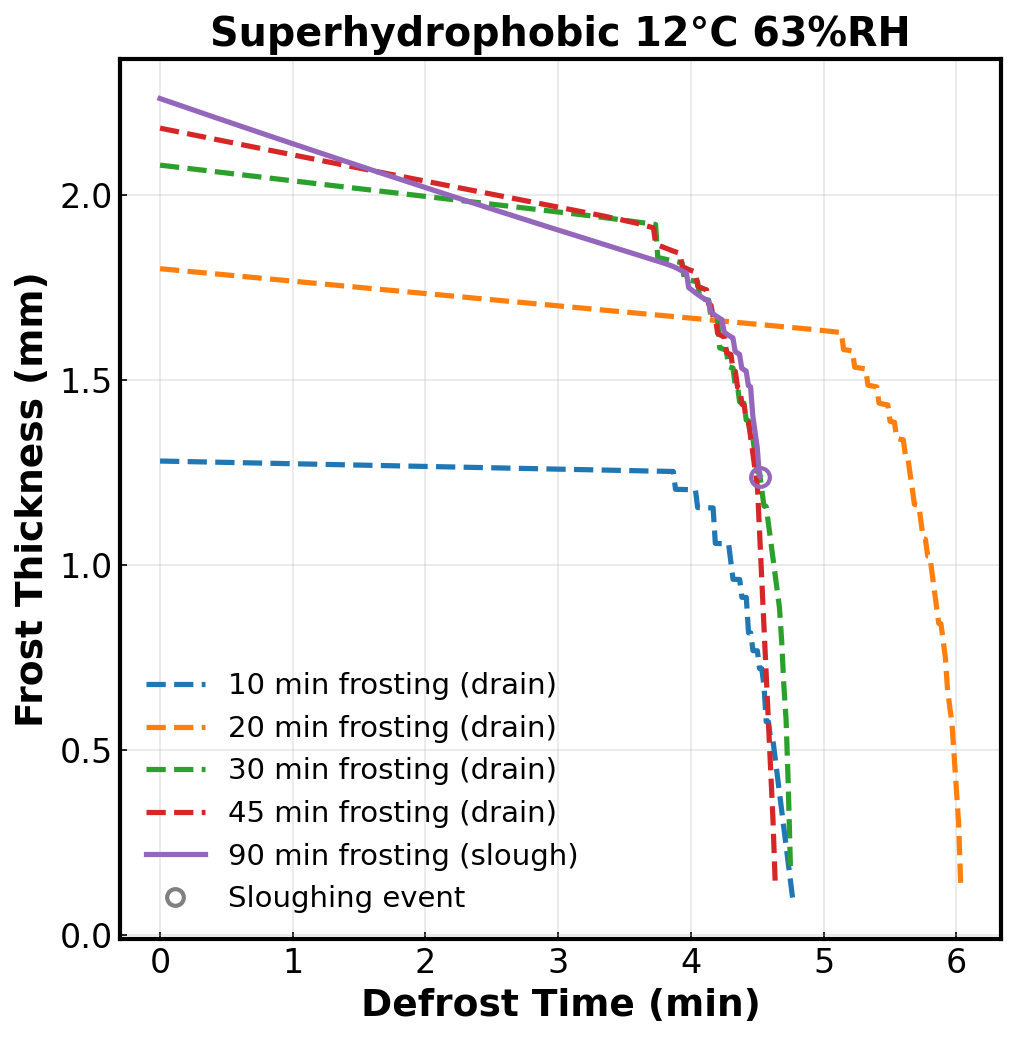
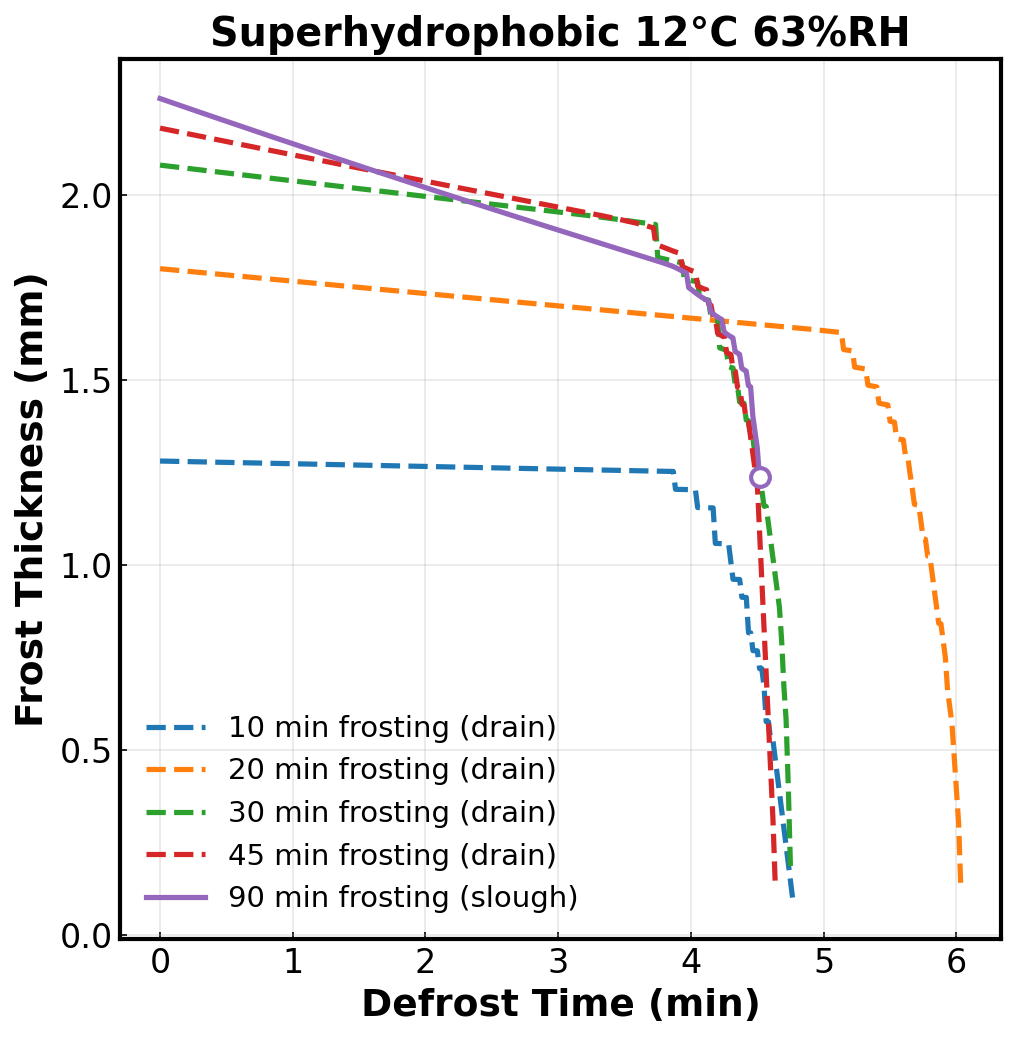
White-fill sloughing circles and drop the legend entry for them
Sloughing markers are now white-filled circles with a colored edge
(instead of hollow), and the 'Sloughing event' legend entry is removed
from all defrost figures.

Changed region(s): [[0.1527, 0.77, 0.5803, 0.8932], [0.2138, 0.6468, 0.5498, 0.7084], [0.1527, 0.6468, 0.1833, 0.7084]]

diff --git a/plot_defrost_thickness_comparison.py b/plot_defrost_thickness_comparison.py
@@ -176,7 +176,7 @@ def plot_defrost_thickness_comparison(cases=None, output_dir='figure', figsize=(
             # reaches the threshold
             if hist['sloughing']:
                 ax.plot(time_min[-1], h_total_mm[-1], marker='o', markersize=9,
-                        markerfacecolor='none', markeredgecolor=color,
+                        markerfacecolor='white', markeredgecolor=color,
                         markeredgewidth=2, linestyle='None', zorder=5)
 
         print(f"  {case}: initial {h_total_mm[0]:.2f} mm, "
@@ -206,10 +206,6 @@ def plot_defrost_thickness_comparison(cases=None, output_dir='figure', figsize=(
     handles, labels = ax1.get_legend_handles_labels()
     handles.append(Line2D([0], [0], color='gray', linewidth=1.5, linestyle='--'))
     labels.append('Critical sloughing threshold')
-    handles.append(Line2D([0], [0], marker='o', markersize=8,
-                          markerfacecolor='none', markeredgecolor='gray',
-                          markeredgewidth=2, linestyle='None'))
-    labels.append('Sloughing event')
     ax2.legend(handles, labels, bbox_to_anchor=(1.05, 1), loc='upper left',
                fontsize=14, frameon=False)
 
@@ -287,7 +283,7 @@ def _plot_condition_pairs(quantity, ylabel, output_file, output_dir='figure',
                 finite = np.where(np.isfinite(values))[0]
                 if len(finite) > 0:
                     ax.plot(time_min[finite[-1]], values[finite[-1]],
-                            marker='o', markersize=9, markerfacecolor='none',
+                            marker='o', markersize=9, markerfacecolor='white',
                             markeredgecolor=color, markeredgewidth=2,
                             linestyle='None', zorder=5)
             outcome = 'sloughs' if hist['sloughing'] else 'no sloughing'
@@ -308,10 +304,6 @@ def _plot_condition_pairs(quantity, ylabel, output_file, output_dir='figure',
     labels.append('Dynamic defrosting')
     handles.append(Line2D([0], [0], color='gray', linewidth=2.5, linestyle='--'))
     labels.append('No dynamic defrosting')
-    handles.append(Line2D([0], [0], marker='o', markersize=8,
-                          markerfacecolor='none', markeredgecolor='gray',
-                          markeredgewidth=2, linestyle='None'))
-    labels.append('Sloughing event')
     ax.legend(handles, labels, bbox_to_anchor=(1.05, 1), loc='upper left',
               fontsize=14, frameon=False)
 
@@ -418,7 +410,7 @@ def _plot_single_condition(label, cases, quantity, ylabel,
             finite = np.where(np.isfinite(values))[0]
             if len(finite) > 0:
                 ax.plot(time_min[finite[-1]], values[finite[-1]], marker='o',
-                        markersize=9, markerfacecolor='none',
+                        markersize=9, markerfacecolor='white',
                         markeredgecolor=color, markeredgewidth=2,
                         linestyle='None', zorder=5)
         print(f"  {case}: {outcome}s" if outcome == 'slough'
@@ -433,13 +425,7 @@ def _plot_single_condition(label, cases, quantity, ylabel,
         spine.set_linewidth(2)
     ax.set_box_aspect(1)
 
-    from matplotlib.lines import Line2D
-    handles, labels = ax.get_legend_handles_labels()
-    handles.append(Line2D([0], [0], marker='o', markersize=8,
-                          markerfacecolor='none', markeredgecolor='gray',
-                          markeredgewidth=2, linestyle='None'))
-    labels.append('Sloughing event')
-    ax.legend(handles, labels, fontsize=14, frameon=False, loc='best')
+    ax.legend(fontsize=14, frameon=False, loc='best')
 
     plt.tight_layout()
 
